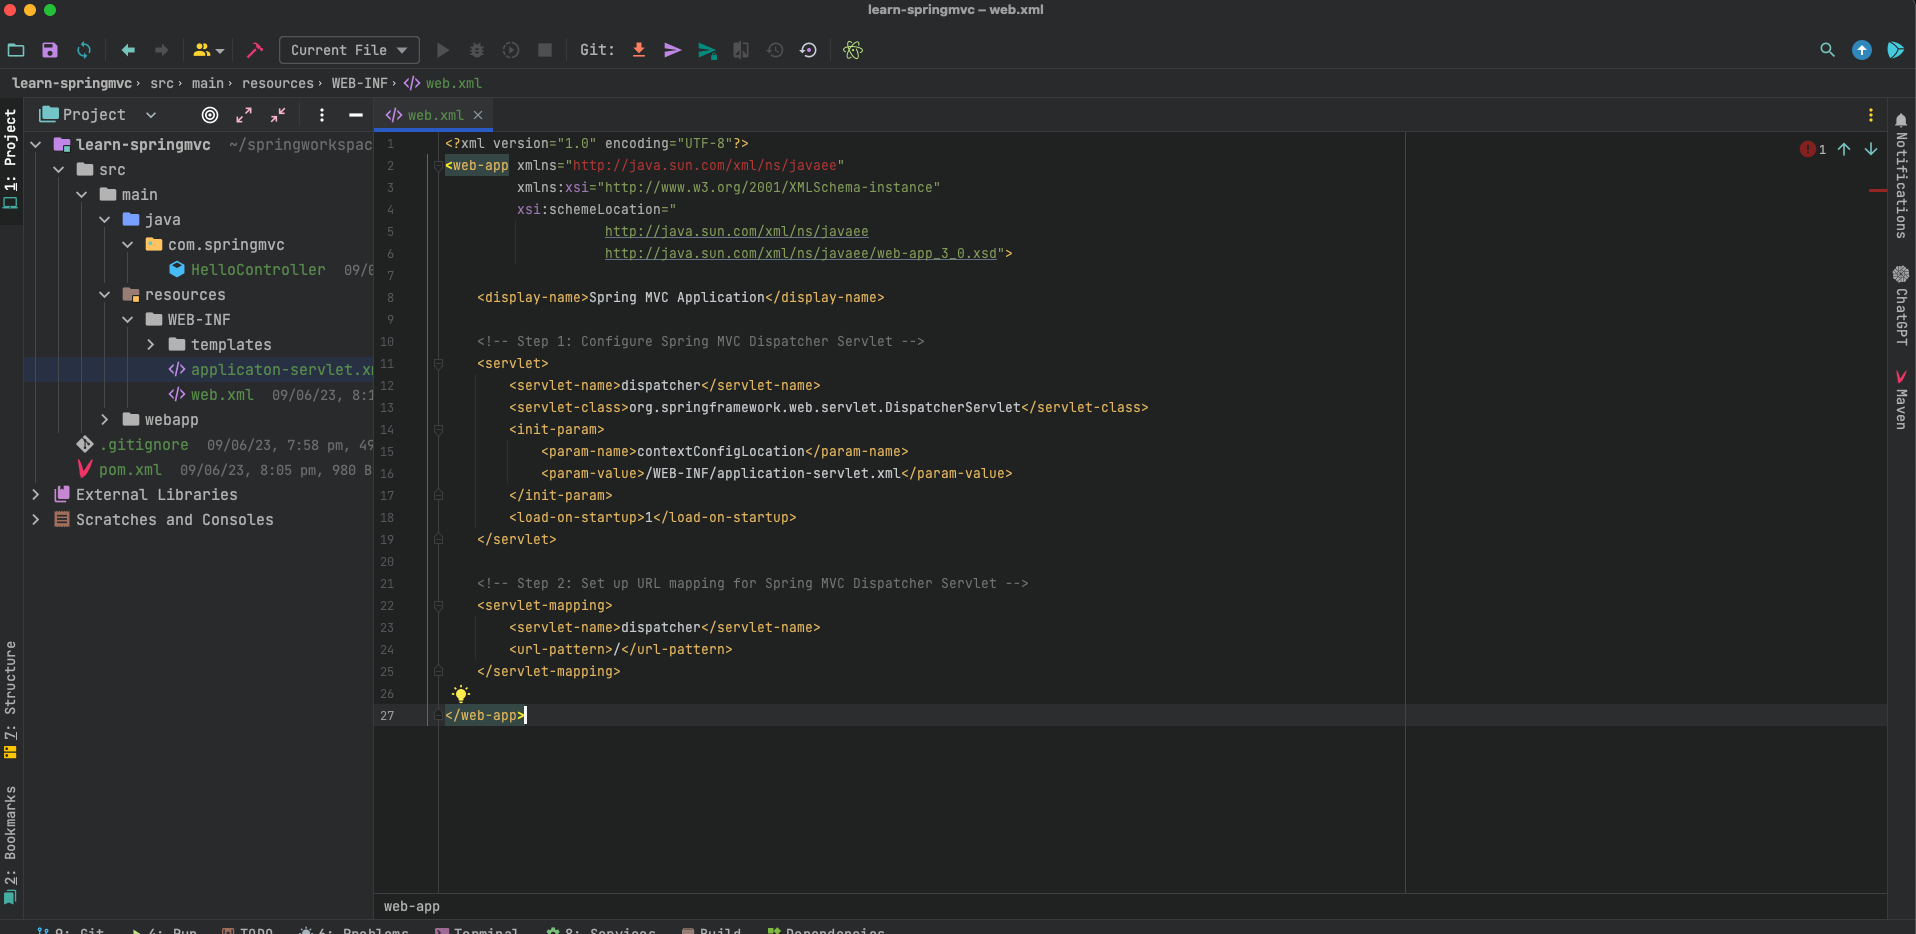
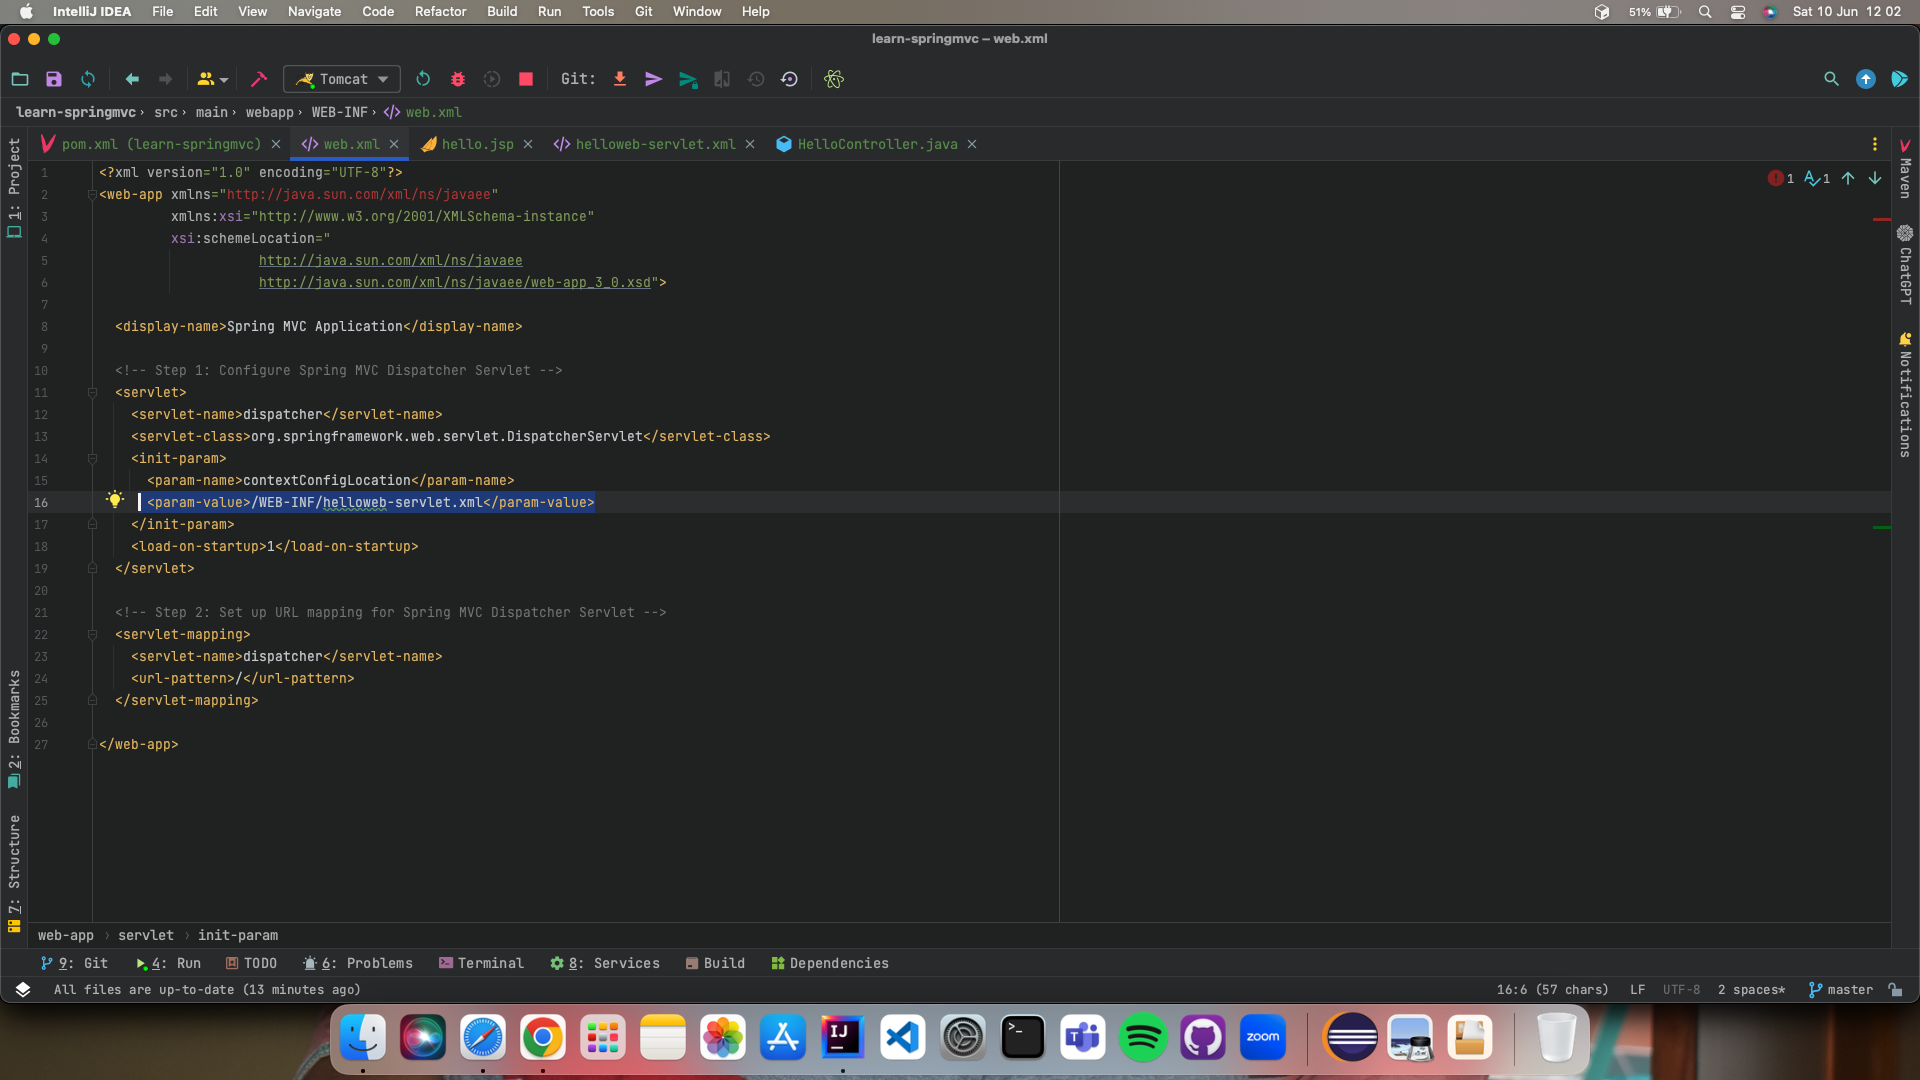
Updated Spring MVC Manual Steps

diff --git a/coursemodule3/ConfigureSpringMVC.md b/coursemodule3/ConfigureSpringMVC.md
@@ -3,11 +3,15 @@
 We may construct a Spring MVC project in two methods.
 
 ## Manual Configuration:
-   
-If you prefer a more hands-on approach, you can manually construct a Spring MVC project by specifying the essential components and setting up the project structure. 
-Typically, you would begin by creating a new **Maven** or **Gradle** project and adding the appropriate **Spring MVC dependencies**.
-The **Spring DispatcherServlet** would then be configured, **controllers** would be created, **views** (templates or JSPs) defined, and any extra components (e.g., data access, security) would be set up.
-This method allows greater flexibility and control over project settings, but it necessitates a better grasp of Spring MVC's internals. 
+
+If you prefer a more hands-on approach, you can manually construct a Spring MVC project by specifying the essential
+components and setting up the project structure.
+Typically, you would begin by creating a new **Maven** or **Gradle** project and adding the appropriate **Spring MVC
+dependencies**.
+The **Spring DispatcherServlet** would then be configured, **controllers** would be created, **views** (templates or
+JSPs) defined, and any extra components (e.g., data access, security) would be set up.
+This method allows greater flexibility and control over project settings, but it necessitates a better grasp of Spring
+MVC's internals.
 
 Configure a Spring MVC project by following these steps in IntelliJ
 
@@ -15,46 +19,96 @@ Configure a Spring MVC project by following these steps in IntelliJ
 
    <img src="../images/SpringMVC1.png" alt="IntelliJMainScreen">
 
-2. Choose Maven ArcheType from the left and then check Create from archetype. Search for `org.apache.maven.archetypes.maven-archetype-webapp` and fill the details with your project and Click the **Create** Button
+2. Choose Maven ArcheType from the left and then check Create from archetype. Search
+   for `org.apache.maven.archetypes.maven-archetype-webapp` and fill the details with your project and Click the *
+   *Create** Button
     * Name: **learn-springmvc**
     * GroupId : **com.springmvc**
     * ArtifactId: **learn-springmvc**
 
    <img src="../images/SpringMVC2.png" alt="IntelliJMainScreen">
 
-3. Wait for a project to open in IDE, and Include the following dependent in your `pom.xml` file's dependencies
+   3. Wait for a project to open in IDE, and Include the following dependent in your `pom.xml` file's dependencies
 
-    ```xml
-    <dependency>
-      <groupId>org.springframework</groupId>
-      <artifactId>spring-webmvc</artifactId>
-      <version>6.0.9</version>
-    </dependency>
-    ```   
+       ```xml
+       <dependency>
+         <groupId>org.springframework</groupId>
+         <artifactId>spring-webmvc</artifactId>
+         <version>6.0.9</version>
+       </dependency>
+       ``` 
+      Complete `pom.xml` should be
+      ```xml
+      <project xmlns="http://maven.apache.org/POM/4.0.0" xmlns:xsi="http://www.w3.org/2001/XMLSchema-instance"
+            xsi:schemaLocation="http://maven.apache.org/POM/4.0.0 http://maven.apache.org/maven-v4_0_0.xsd">
+       <modelVersion>4.0.0</modelVersion>
+       <groupId>com.springmvc</groupId>
+       <artifactId>learn-springmvc</artifactId>
+       <packaging>war</packaging>
+       <properties>
+           <maven.compiler.source>17</maven.compiler.source>
+           <maven.compiler.target>17</maven.compiler.target>
+       </properties>
+      <version>1.0-SNAPSHOT</version>
+      <name>learn-springmvc Maven Webapp</name>
+      <url>http://maven.apache.org</url>
+      <dependencies>
+            <dependency>
+               <groupId>org.springframework</groupId>
+               <artifactId>spring-webmvc</artifactId>
+               <version>6.0.9</version>
+            </dependency>
+            <dependency>
+               <groupId>junit</groupId>
+               <artifactId>junit</artifactId>
+               <version>3.8.1</version>
+               <scope>test</scope>
+            </dependency>
+      </dependencies>
+      <build>
+         <finalName>learn-springmvc</finalName>
+         <pluginManagement>
+               <plugins>
+                     <plugin>
+                     <groupId>org.apache.maven.plugins</groupId>
+                     <artifactId>maven-war-plugin</artifactId>
+                     <version>3.3.2</version>
+                     </plugin>
+               </plugins>
+         </pluginManagement>
+      </build>
+      </project>
+ 
+      ```
+      <img src="../images/SpringMVC3.png" alt="POMScreen">
 
-   <img src="../images/SpringMVC3.png" alt="POMScreen">
 
-   
 4. Click on the **Maven** tab on the right and click on the sync button to reload the `pox.xml`.
 
-5. Create two new folders in the main folder, **java** and **resources**, as seen in the screenshot below. We shall keep all *.java files in java and all static resources in resources.
+5. Create two new folders in the main folder, **java** and **resources**, as seen in the screenshot below. We shall keep
+   all *.java files in java and all static resources in resources.
    <img src="../images/SpringMVC4.png" alt="IntelliJMainScreen">
 
-6. Create a new class in java directory `com.springmvc.HelloController`, Here **com.springmvc** is the name of the base-package and HelloController is the name of our class.
+6. Create a new class in java directory `com.springmvc.HelloController`, Here **com.springmvc** is the name of the
+   base-package and HelloController is the name of our class.
    <img src="../images/SpringMVC5.png" alt="ControllerScreen">
-7. Create a new directory called jsp inside **WEB-INF** directory (assuming you're using jsp as the template engine). For this example, let's create a file named `hello.jsp`.
+7. Create a new directory called jsp inside **WEB-INF** directory (assuming you're using jsp as the template engine).
+   For this example, let's create a file named `hello.jsp`.
+
 ```html
    <!DOCTYPE html>
-   <html>
-   <head>
-       <title>Spring MVC Demo</title>
-   </head>
-   <body>
-       <h2>${message}</h2>
-   </body>
-   </html>
+<html>
+<head>
+    <title>Spring MVC Demo</title>
+</head>
+<body>
+<h2>${message}</h2>
+</body>
+</html>
 ```
-8. Create a new file named `web.xml` within the **WEB-INF** directory and update its contents as seen in the screenshot below.
+
+8. Create a new file named `web.xml` within the **WEB-INF** directory and update its contents as seen in the screenshot
+   below.
       ```xml
       <?xml version="1.0" encoding="UTF-8"?>
          <web-app xmlns="http://java.sun.com/xml/ns/javaee"
@@ -85,6 +139,7 @@ Configure a Spring MVC project by following these steps in IntelliJ
          </web-app>
       ```
 9. Make a new file named `helloweb-servlet.xml` and edit its contents as seen in the screenshot below.
+
 ```xml
 <?xml version="1.0" encoding="UTF-8"?>
 <beans xmlns="http://www.springframework.org/schema/beans"
@@ -105,30 +160,56 @@ Configure a Spring MVC project by following these steps in IntelliJ
 
     <bean class="org.springframework.web.servlet.view.InternalResourceViewResolver">
         <property name="prefix" value="/WEB-INF/jsp/"/>
-        <property name="suffix" value=".html" />
+        <property name="suffix" value=".jsp"/>
     </bean>
 
 </beans>
 ```
 
-10. Install the Smart Tomcat plugin
-11. Click on the Add Configuration button and then click on + button. Select Smart Tomcat and click OK
-12. Download the [Apache Tomcat](https://dlcdn.apache.org/tomcat/tomcat-10/v10.1.9/bin/apache-tomcat-10.1.9.zip) and extract the compressed download.
+10. Download the [Apache Tomcat](https://dlcdn.apache.org/tomcat/tomcat-10/v10.1.9/bin/apache-tomcat-10.1.9.zip) and
+    extract the compressed download.
 
+11. Install the Smart Tomcat plugin
+
+ <img src="../images/SpringMVCSmartTomcat.png" alt="SmartTomcat">
+
+12. Navigate to Run > Edit Configuration button and then click on + button. Select Smart Tomcat, fill the following
+    details, and click OK
+    * Under Configuration > Tomcat Server > navigate to the apache tomcat unzipped folder and select root the folder.
+    * Remaining options don't change unless it is necessary.
+
+ <img src="../images/SpringMVCTomcatConfig.png" alt="TomcatConfig">
+
+13. After configuring tomcat, Click on the **Maven** tab on the right and select **clean, install** do execute for
+    creating a war file.
+14. Then run the tomcat server instance, you will see the below logs
+
+<img src="../images/SpringMVCAppStartup.png" alt="TomcatStartUp">
+
+14. Go to the browser and access http://localhost:8080/learn-springmvc/hello_world
+
+ <img src="../images/SpringMVCAppLaunch.png" alt="App Launch">
 
 ## Using Spring Initializr
 
-Spring Initializr is a web-based application that the Spring team provides to construct a pre-configured Spring project structure. It lets you choose the dependencies and technologies to integrate in your project, such as Spring MVC, database drivers, security, and so on. After selecting the required choices, you may download the project structure as a zip file and import it into your favourite integrated development environment (IDE).
-Spring MVC autoconfiguration in a Spring Boot application is extremely simple because Spring Boot supports autoconfiguration for Spring MVC. 
+Spring Initializr is a web-based application that the Spring team provides to construct a pre-configured Spring project
+structure. It lets you choose the dependencies and technologies to integrate in your project, such as Spring MVC,
+database drivers, security, and so on. After selecting the required choices, you may download the project structure as a
+zip file and import it into your favourite integrated development environment (IDE).
+Spring MVC autoconfiguration in a Spring Boot application is extremely simple because Spring Boot supports
+autoconfiguration for Spring MVC.
 
 To create a Spring MVC application using Spring Boot, follow these steps:
 
-## Step 1: Set up a new Spring Boot project 
-Create a new Maven or Gradle project and add the necessary dependencies for Spring Boot and Spring MVC. In this example, I'll use Maven.
+## Step 1: Set up a new Spring Boot project
+
+Create a new Maven or Gradle project and add the necessary dependencies for Spring Boot and Spring MVC. In this example,
+I'll use Maven.
 
 Add the following dependencies to your `pom.xml` file:
 
 ```xml
+
 <dependencies>
     <!-- Spring Boot Starter -->
     <dependency>
@@ -144,8 +225,11 @@ Add the following dependencies to your `pom.xml` file:
 </dependencies>
 
 ```
+
 ## Step 2: Create a Controller
-Make a new Java class that will act as a controller for your Spring MVC application. This class is responsible for handling incoming HTTP requests and defining the application's endpoints.
+
+Make a new Java class that will act as a controller for your Spring MVC application. This class is responsible for
+handling incoming HTTP requests and defining the application's endpoints.
 
 ```java
 package com.springcourse.learnspring.springmvc;
@@ -168,24 +252,26 @@ public class HelloController {
 
 ## Step3: Create a View
 
-Create a new HTML view file in the **/src/main/resources/templates** directory (assuming you're using Thymeleaf as the template engine). For this example, let's create a file named `hello.html`.
+Create a new HTML view file in the **/src/main/resources/templates** directory (assuming you're using Thymeleaf as the
+template engine). For this example, let's create a file named `hello.html`.
 
 ```html
 <!DOCTYPE html>
 <html lang="en">
 <head>
-    <meta charset="UTF-8">
-    <title>Spring MVC Example</title>
+   <meta charset="UTF-8">
+   <title>Spring MVC Example</title>
 </head>
 <body>
 <h1>Spring MVC Example</h1>
-<p th:text="${message}"></p>
 </body>
 </html>
 ```
 
 ## Step 4: Run the Application
-You may now launch your Spring Boot application i.e., **LearnSpringApplication**. Spring Boot will manage the startup of the embedded Tomcat server as well as the deployment of your application.
+
+You may now launch your Spring Boot application i.e., **LearnSpringApplication**. Spring Boot will manage the startup of
+the embedded Tomcat server as well as the deployment of your application.
 
 ```java
 package com.springcourse.learnspring;
@@ -196,16 +282,20 @@ import org.springframework.boot.autoconfigure.SpringBootApplication;
 @SpringBootApplication
 public class LearnSpringApplication {
 
-	public static void main(String[] args) {
-		SpringApplication.run(LearnSpringApplication.class, args);
-	}
+    public static void main(String[] args) {
+        SpringApplication.run(LearnSpringApplication.class, args);
+    }
 
 }
 ```
+
 ## Step 5: Test the Application
-Open your web browser and visit http://localhost:8080 (assuming the application is running on the default port). You should see the `Welcome to Spring MVC!` message displayed on the page.
+
+Open your web browser and visit http://localhost:8080 (assuming the application is running on the default port). You
+should see the `Welcome to Spring MVC!` message displayed on the page.
 
 <img src="../images/SpringMVCHome.png" alt="SpringMVCHome">
 
-That's all! You've used Spring Boot to develop a basic Spring MVC application. In the next steps, we'll add more controllers, views, and business logic as needed.
+That's all! You've used Spring Boot to develop a basic Spring MVC application. In the next steps, we'll add more
+controllers, views, and business logic as needed.
 
